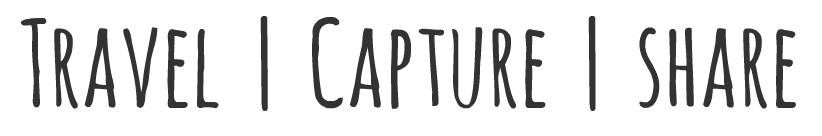
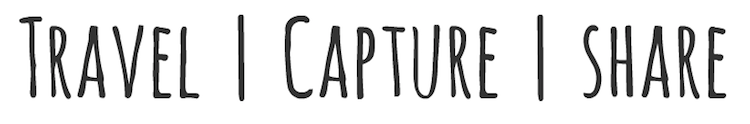
fixed css including the profile photo

diff --git a/public/css/main.css b/public/css/main.css
@@ -1,6 +1,10 @@
 body {
   box-sizing: border-box;
   font-family: "Lucida Grande", Helvetica, Arial, sans-serif;
+  font-size: 20px;
+  padding: 50px;
+  color: #624e42;
+  background-color: gray;
 }
 
 em {
@@ -12,25 +16,20 @@ em {
   padding-right: 30px;
 }
 
-body {
-  font-size: 20px;
-  padding: 50px;
-  color: #624e42;
-}
-
 a { color: #00B7FF; }
 
 .container {
   align-content: center;
 }
 
+/*This centers the slogan travel capture share*/
 .slogan {
-  padding-left: 250px;
+  padding-left: 275px;
 }
 
+/*This is for all the written content*/
 .content {
     font-size: 20px;
-    /*text-align: center;*/
     color: #624e42;
     font-family: 'Roboto', sans-serif;
     padding-left: 30px;
@@ -55,7 +54,7 @@ a { color: #00B7FF; }
   -o-background-size: 100% 100%;
   background-size: 100% 100%;
 }
-
+/*This is for pushing the jumbotron to a larger size*/
 .push-spaces {
     height: 350px;
 }
@@ -63,16 +62,13 @@ a { color: #00B7FF; }
 h3 {
   padding-left: 80px;
 }
-
+/*This is the profile photo in the nav bar*/
 img.mug_shot{
   border-radius: 50%;
+  padding: 10px;
 }
 
-img.mug_shot{
-  border-radius: 50%;
-}
-
-#edit_btn{
+#submit_btn{
   margin-top: 30px;
   color: #24afe5;
   background-color: #624e42;
@@ -117,7 +113,7 @@ font-family: 'Roboto', sans-serif;
   width: 25%;
   height: 285%;
   top: -10px;
-  padding-left: 30px;
+  padding-left: 35px;
 }
 
 /*this pushes the nav bar down so the logo fits better*/
